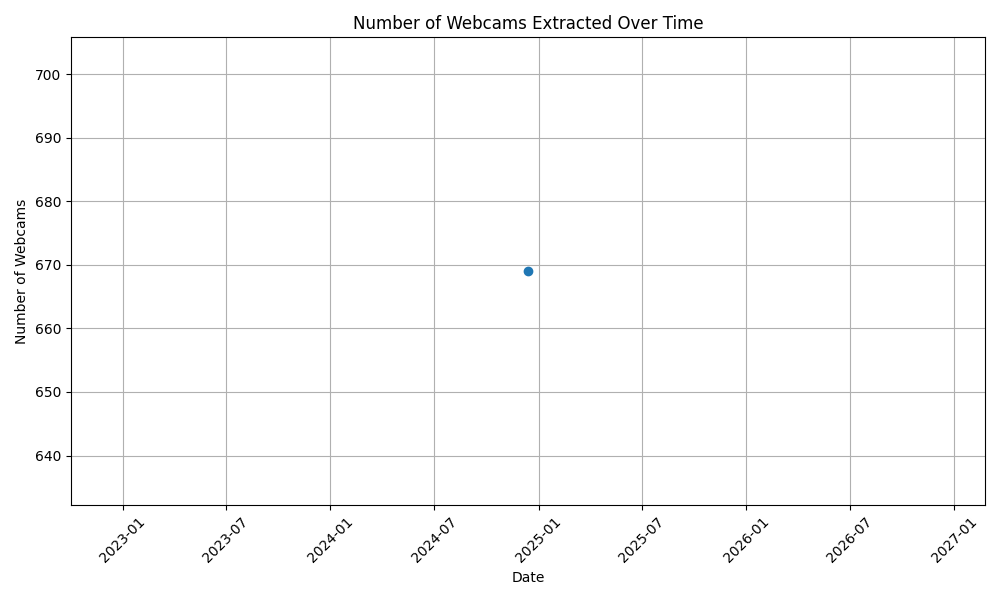
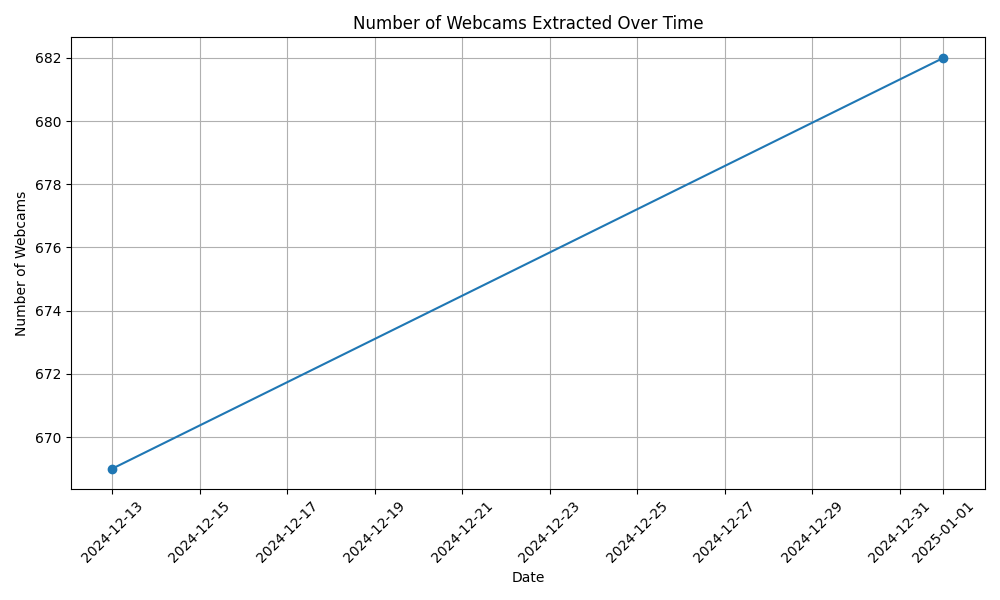
Skaping 2025-01-01

diff --git a/Skaping/README.md b/Skaping/README.md
@@ -1,6 +1,6 @@
 # Skaping 🎥
 
-**Data last updated on: 2024-12-13**
+**Data last updated on: 2025-01-01**
 
 Data extracted from: [Skaping](https://www.skaping.com)
 
